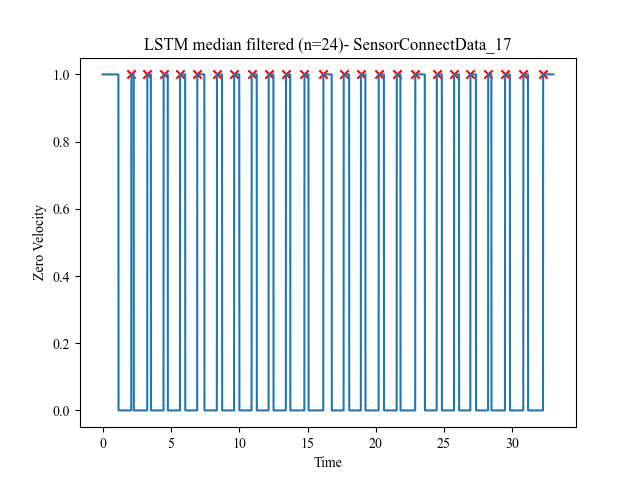
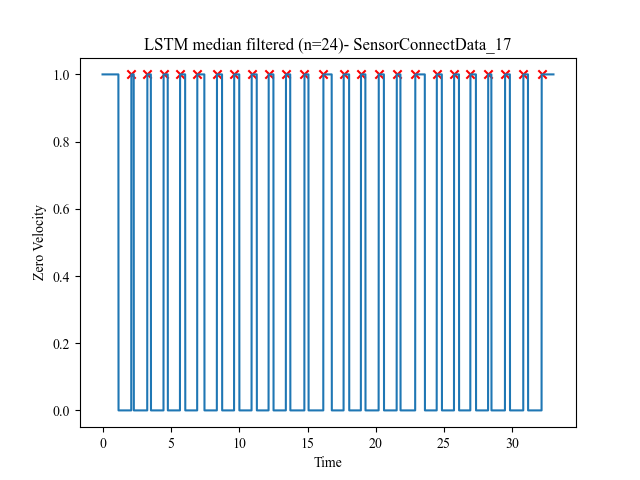
median filtering kernel size is now automatically computed to detect the number of strides taken by the pedestrian

Changed region(s): [[0.8438, 0.125, 0.875, 0.8438]]

diff --git a/plot_own_sensor_data.py b/plot_own_sensor_data.py
@@ -33,7 +33,7 @@ g = 9.8029
 numberOfStrides = [75, 24] # we counted these number of strides during the experiments
 # different size kernels for correct detection of number of strides taken by the pedestrian
 # kernel sizes are determined automatically in a brute-force search yet the correct values are noted here for time-saving purposes
-k = [21, 55]
+# k = [21, 55]
 j = 0 # experiment index
 
 # Process each sensor data file
@@ -86,21 +86,22 @@ for file in sensor_data_files:
         # that yields incorrect count of strides taken by the pedestrian.
         if det_list[i] == 'lstm':
             logging.info(f"Plotting zero velocity detection for median filtered {det_list[i]} detector for file: {file}")
-            print(f"Kernel size is {k[j]} for the current median filtering process.")
-            zv_lstm_filtered = medfilt(zv, k[j])
-            zv_lstm_filtered[:100] = 1 # make sure all labels are zero at the beginning as the foot is stationary
-            n, strideIndex = count_zero_to_one_transitions(zv_lstm_filtered)
-            # while n != numberOfStrides[j]:
-            #     k = k+2
-            #     print(f"Kernel size is {k} for the current median filtering process.")
-            #     zv_lstm_filtered = medfilt(zv, k)
-            #     zv_lstm_filtered[:100] = 1 # make sure all labels are zero at the beginning as the foot is stationary
-            #     n, strideIndex = count_zero_to_one_transitions(zv_lstm_filtered)
-            # if n == numberOfStrides[j]:
-            #     print("Number of strides and the indices are correctly detected.")
-            print(f"There are {n} strides detected in the experiment.")
-            print(f"There are {numberOfStrides[j]} ground truth strides detected in the experiment.")
-            print(f"The stride indices are {strideIndex}")
+            # print(f"Kernel size is {k[j]} for the current median filtering process.")
+            # zv_lstm_filtered = medfilt(zv, k[j])
+            # zv_lstm_filtered[:100] = 1 # make sure all labels are zero at the beginning as the foot is stationary
+            # n, strideIndex = count_zero_to_one_transitions(zv_lstm_filtered)
+            k = 5
+            while True:
+                k = k+2
+                print(f"Kernel size is {k} for the current median filtering process.")
+                zv_lstm_filtered = medfilt(zv, k)
+                zv_lstm_filtered[:100] = 1 # make sure all labels are zero at the beginning as the foot is stationary
+                n, strideIndex = count_zero_to_one_transitions(zv_lstm_filtered)
+                if n == numberOfStrides[j]:
+                    print("Number of strides and the indices are correctly detected.")
+                    print(f"There are {n}/{numberOfStrides[j]} strides detected in the experiment.")
+                    print(f"The stride indices are {strideIndex}")
+                    break
             j = j+1
             print(f"There are {j} experiments conducted.")
             plt.figure()
